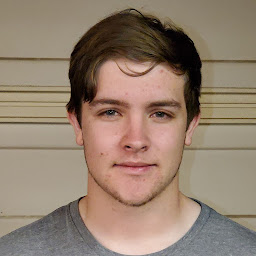
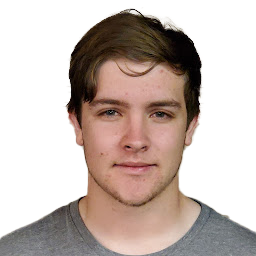
scrollbar fix, added terminal project modal, modal x button, photo backrgound removed

diff --git a/src/app/portfolio/page.tsx b/src/app/portfolio/page.tsx
@@ -2,6 +2,7 @@ import ContactInfoButton from "../../components/ContactInfoButton";
 import ProjectAIDetailsButton from "../../components/ProjectAIDetailsButton";
 import ProjectShredForgeDetailsButton from "../../components/ProjectShredForgeDetailsButton";
 import Image from "next/image";
+import ProjectTerminalDetailsButton from "../../components/ProjectTerminalDetailsButton";
 export const metadata = {
   title: "Henry Allen — Portfolio",
   description: "A modern, thoughtfully designed developer portfolio.",
@@ -48,7 +49,7 @@ export default function PortfolioPage() {
               width={112}
               height={112}
               priority
-              className="h-28 w-28 rounded-full ring-1 ring-white/20 object-cover"
+              className="h-28 w-28 rounded-full object-cover"
             />
           </div>
           <p className="max-w-2xl text-pretty text-white/70">
@@ -81,17 +82,6 @@ export default function PortfolioPage() {
       <Section title="Projects">
         <div className="grid gap-6 sm:grid-cols-2 lg:grid-cols-3">
           <Card>
-            <h3 className="text-lg font-semibold">Terminal Portfolio</h3>
-            <p className="mt-2 text-sm text-white/70">
-              Cinematic, terminal‑style portfolio that emulates a remote Mac shell experience.
-            </p>
-            <div className="mt-4 flex flex-wrap gap-2 text-xs text-white/60">
-              <span className="rounded-full border border-white/15 bg-white/5 px-2 py-1">Next.js</span>
-              <span className="rounded-full border border-white/15 bg-white/5 px-2 py-1">TypeScript</span>
-              <span className="rounded-full border border-white/15 bg-white/5 px-2 py-1">xterm.js</span>
-            </div>
-          </Card>
-          <Card>
             <h3 className="text-lg font-semibold flex items-center gap-2">RV Scraping <Image src="/motomate.png" alt="Motomate logo" width={16} height={16} className="h-[1em] w-auto" /></h3>
             <p className="mt-2 text-sm text-white/70">Web scraper for RV inventory data aggregation.</p>
             <div className="mt-4 flex flex-wrap gap-2 text-xs text-white/60">
@@ -108,7 +98,7 @@ export default function PortfolioPage() {
             <div className="mt-4 flex flex-wrap gap-2 text-xs text-white/60">
               <span className="rounded-full border border-white/15 bg-white/5 px-2 py-1">Docker</span>
               <span className="rounded-full border border-white/15 bg-white/5 px-2 py-1">AWS</span>
-              <span className="rounded-full border border-white/15 bg-white/5 px-2 py-1">CI/CD</span>
+              <span className="rounded-full border border-white/15 bg-white/5 px-2 py-1">DevOps</span>
             </div>
           </Card>
           <ProjectAIDetailsButton>
@@ -145,6 +135,23 @@ export default function PortfolioPage() {
               </div>
             </Card>
           </ProjectShredForgeDetailsButton>
+          <ProjectTerminalDetailsButton>
+            <Card>
+              <div className="absolute right-3 top-3 inline-flex items-center gap-1.5 rounded-full bg-white/10 px-2.5 py-1 text-[11px] font-medium text-white/85 ring-1 ring-white/20 backdrop-blur-sm group-hover:bg-white/15">
+                <svg aria-hidden viewBox="0 0 24 24" className="h-3.5 w-3.5 text-white/80"><path fill="currentColor" d="M12 5c5 0 9 4.5 10 7-1 2.5-5 7-10 7S3 14.5 2 12c1-2.5 5-7 10-7Zm0 2c-3.866 0-7 3.582-7 5s3.134 5 7 5 7-3.582 7-5-3.134-5-7-5Zm0 2.5A2.5 2.5 0 1 1 9.5 12 2.5 2.5 0 0 1 12 9.5Z"/></svg>
+                <span>View details</span>
+              </div>
+              <h3 className="text-lg font-semibold">Terminal Portfolio</h3>
+              <p className="mt-2 text-sm text-white/70">
+                Cinematic, terminal‑style portfolio that emulates a remote Mac shell experience.
+              </p>
+              <div className="mt-4 flex flex-wrap gap-2 text-xs text-white/60">
+                <span className="rounded-full border border-white/15 bg-white/5 px-2 py-1">Next.js</span>
+                <span className="rounded-full border border-white/15 bg-white/5 px-2 py-1">TypeScript</span>
+                <span className="rounded-full border border-white/15 bg-white/5 px-2 py-1">xterm.js</span>
+              </div>
+            </Card>
+          </ProjectTerminalDetailsButton>
         </div>
       </Section>
     </main>

diff --git a/src/components/ProjectTerminalDetailsButton.tsx b/src/components/ProjectTerminalDetailsButton.tsx
@@ -1,0 +1,76 @@
+"use client";
+
+import { cloneElement, isValidElement, useState } from "react";
+import type { KeyboardEvent, MouseEvent, ReactElement } from "react";
+import { PortfolioPreviewModal } from "./PortfolioPreviewModal";
+
+type ClickableChildProps = {
+  className?: string;
+  onClick?: (e: MouseEvent) => void;
+  onKeyDown?: (e: KeyboardEvent) => void;
+  tabIndex?: number;
+  role?: string;
+};
+
+type ClickableChild = ReactElement<ClickableChildProps>;
+
+export default function ProjectTerminalDetailsButton({ children }: { children?: ClickableChild }) {
+  const [open, setOpen] = useState(false);
+
+  const contentHtml = `
+    <div style="display:grid; place-items:center; text-align:center; padding:8px;">
+      <p style="color:rgba(255,255,255,0.9); font-size:14px;">your already looking at it ;)</p>
+    </div>
+  `;
+
+  if (children && isValidElement(children)) {
+    const onOpen = () => setOpen(true);
+    const origProps = (children.props ?? {}) as ClickableChildProps;
+    const trigger = cloneElement<ClickableChildProps>(children as ClickableChild, {
+      role: 'button',
+      tabIndex: 0,
+      onClick: (e) => {
+        origProps.onClick?.(e);
+        onOpen();
+      },
+      onKeyDown: (e) => {
+        if (e.key === 'Enter' || e.key === ' ') {
+          e.preventDefault();
+          onOpen();
+        }
+        origProps.onKeyDown?.(e);
+      },
+      className: `${origProps.className ?? ''} cursor-pointer`.trim(),
+    });
+
+    return (
+      <>
+        {trigger}
+        <PortfolioPreviewModal
+          isOpen={open}
+          title="Terminal Portfolio — Details"
+          contentHtml={contentHtml}
+          onClose={() => setOpen(false)}
+        />
+      </>
+    );
+  }
+
+  return (
+    <>
+      <button
+        type="button"
+        onClick={() => setOpen(true)}
+        className="inline-flex items-center gap-2 rounded-lg border border-white/15 bg-white/5 px-3 py-1.5 text-sm font-medium text-white transition-colors hover:border-white/25 hover:bg-white/10"
+      >
+        View details
+      </button>
+      <PortfolioPreviewModal
+        isOpen={open}
+        title="Terminal Portfolio — Details"
+        contentHtml={contentHtml}
+        onClose={() => setOpen(false)}
+      />
+    </>
+  );
+}

diff --git a/src/components/PortfolioPreviewModal.tsx b/src/components/PortfolioPreviewModal.tsx
@@ -48,6 +48,14 @@ export function PortfolioPreviewModal({
         className="relative w-[min(90vw,520px)] max-h-[80vh] overflow-hidden rounded-xl border border-white/10 bg-white/5 p-6 text-white shadow-2xl backdrop-blur"
         onClick={(event) => event.stopPropagation()}
       >
+        <button
+          type="button"
+          aria-label="Close"
+          onClick={onClose}
+          className="absolute right-3 top-3 inline-flex h-8 w-8 items-center justify-center rounded-full bg-white/10 text-white/80 ring-1 ring-white/20 transition hover:bg-white/15 hover:text-white"
+        >
+          <svg aria-hidden viewBox="0 0 24 24" className="h-4 w-4"><path fill="currentColor" d="M6.225 4.811 4.811 6.225 9.586 11l-4.775 4.775 1.414 1.414L11 12.414l4.775 4.775 1.414-1.414L12.414 11l4.775-4.775-1.414-1.414L11 9.586 6.225 4.811Z"/></svg>
+        </button>
         <div className="space-y-4">
           <h3 className="text-lg font-semibold tracking-tight text-white/90">{title}</h3>
           <div

diff --git a/src/components/ContactInfoButton.tsx b/src/components/ContactInfoButton.tsx
@@ -16,9 +16,9 @@ export default function ContactInfoButton({ email, phone }: ContactInfoButtonPro
       <div style="display:grid; gap:12px; font-size:14px; color:rgba(255,255,255,0.85);">
         <div>
           <div style="font-size:12px; color:rgba(255,255,255,0.6); margin-bottom:4px;">Email</div>
-          <div style="color:rgba(255,255,255,0.85);">${email}</div>
+          <a href="mailto:${email}" style="color:rgba(255,255,255,0.85); text-decoration:underline;">${email}</a>
         </div>
-        ${phone ? `<div><div style="font-size:12px; color:rgba(255,255,255,0.6); margin-bottom:4px;">Phone</div><div style=\"color:rgba(255,255,255,0.85);\">${phone}</div></div>` : ""}
+        ${phone ? `<div><div style="font-size:12px; color:rgba(255,255,255,0.6); margin-bottom:4px;">Phone</div><a href=\"tel:${phone}\" style=\"color:rgba(255,255,255,0.85); text-decoration:underline;\">${phone}</a></div>` : ""}
       </div>
     </div>
   `;

diff --git a/src/app/globals.css b/src/app/globals.css
@@ -23,10 +23,14 @@ body {
 
 .xterm .xterm-viewport {
   overflow: hidden;
+  /* Hide scrollbars cross-browser to avoid double scrollbars during render */
+  scrollbar-width: none; /* Firefox */
+  -ms-overflow-style: none; /* IE 10+ */
 }
 
-.xterm .xterm-screen {
-  padding: 16px;
+.xterm .xterm-viewport::-webkit-scrollbar {
+  width: 0;
+  height: 0;
 }
 
 .markdown-content {

diff --git a/src/components/TerminalView.tsx b/src/components/TerminalView.tsx
@@ -75,7 +75,7 @@ export function TerminalView() {
   }, []);
 
   return (
-    <div className="relative h-full w-full">
+    <div className="relative h-full w-full overflow-hidden p-4">
       <div ref={containerRef} className="h-full w-full" />
     </div>
   );

diff --git a/src/components/SkipToPortfolioButton.tsx b/src/components/SkipToPortfolioButton.tsx
@@ -11,7 +11,7 @@ export default function SkipToPortfolioButton() {
   }
 
   return (
-    <div className="fixed right-4 top-4 z-50">
+    <div className="fixed right-6 top-8 z-50">
       <Link
         href="/portfolio"
         target="_blank"
